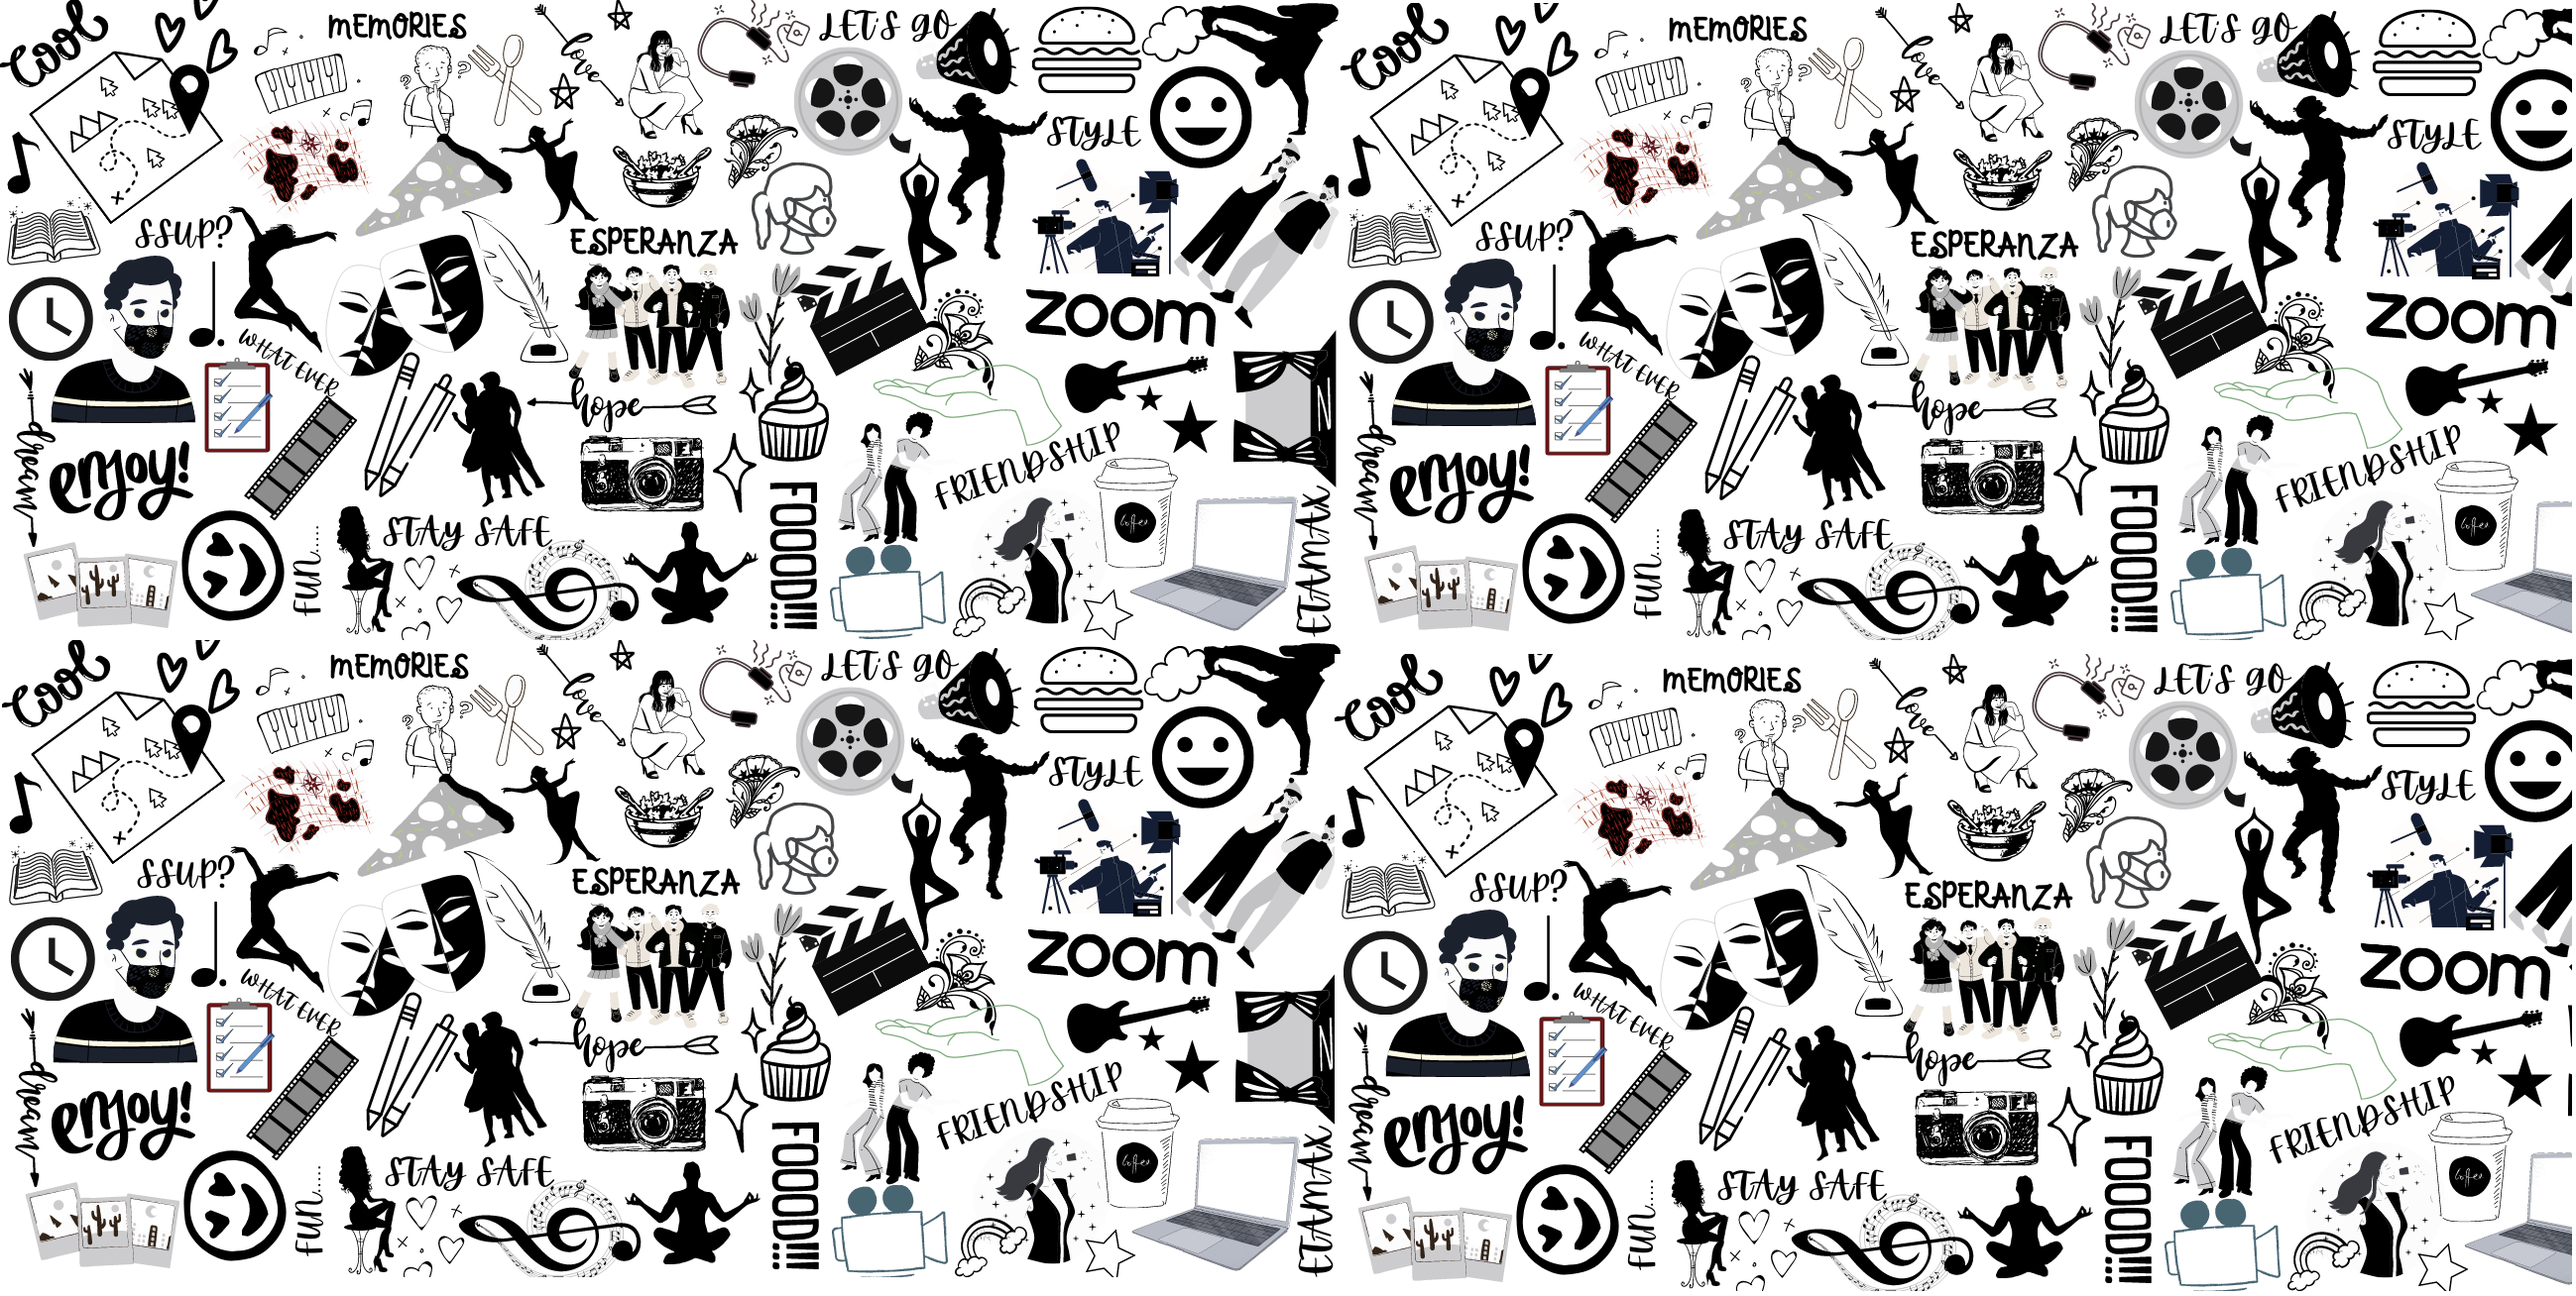
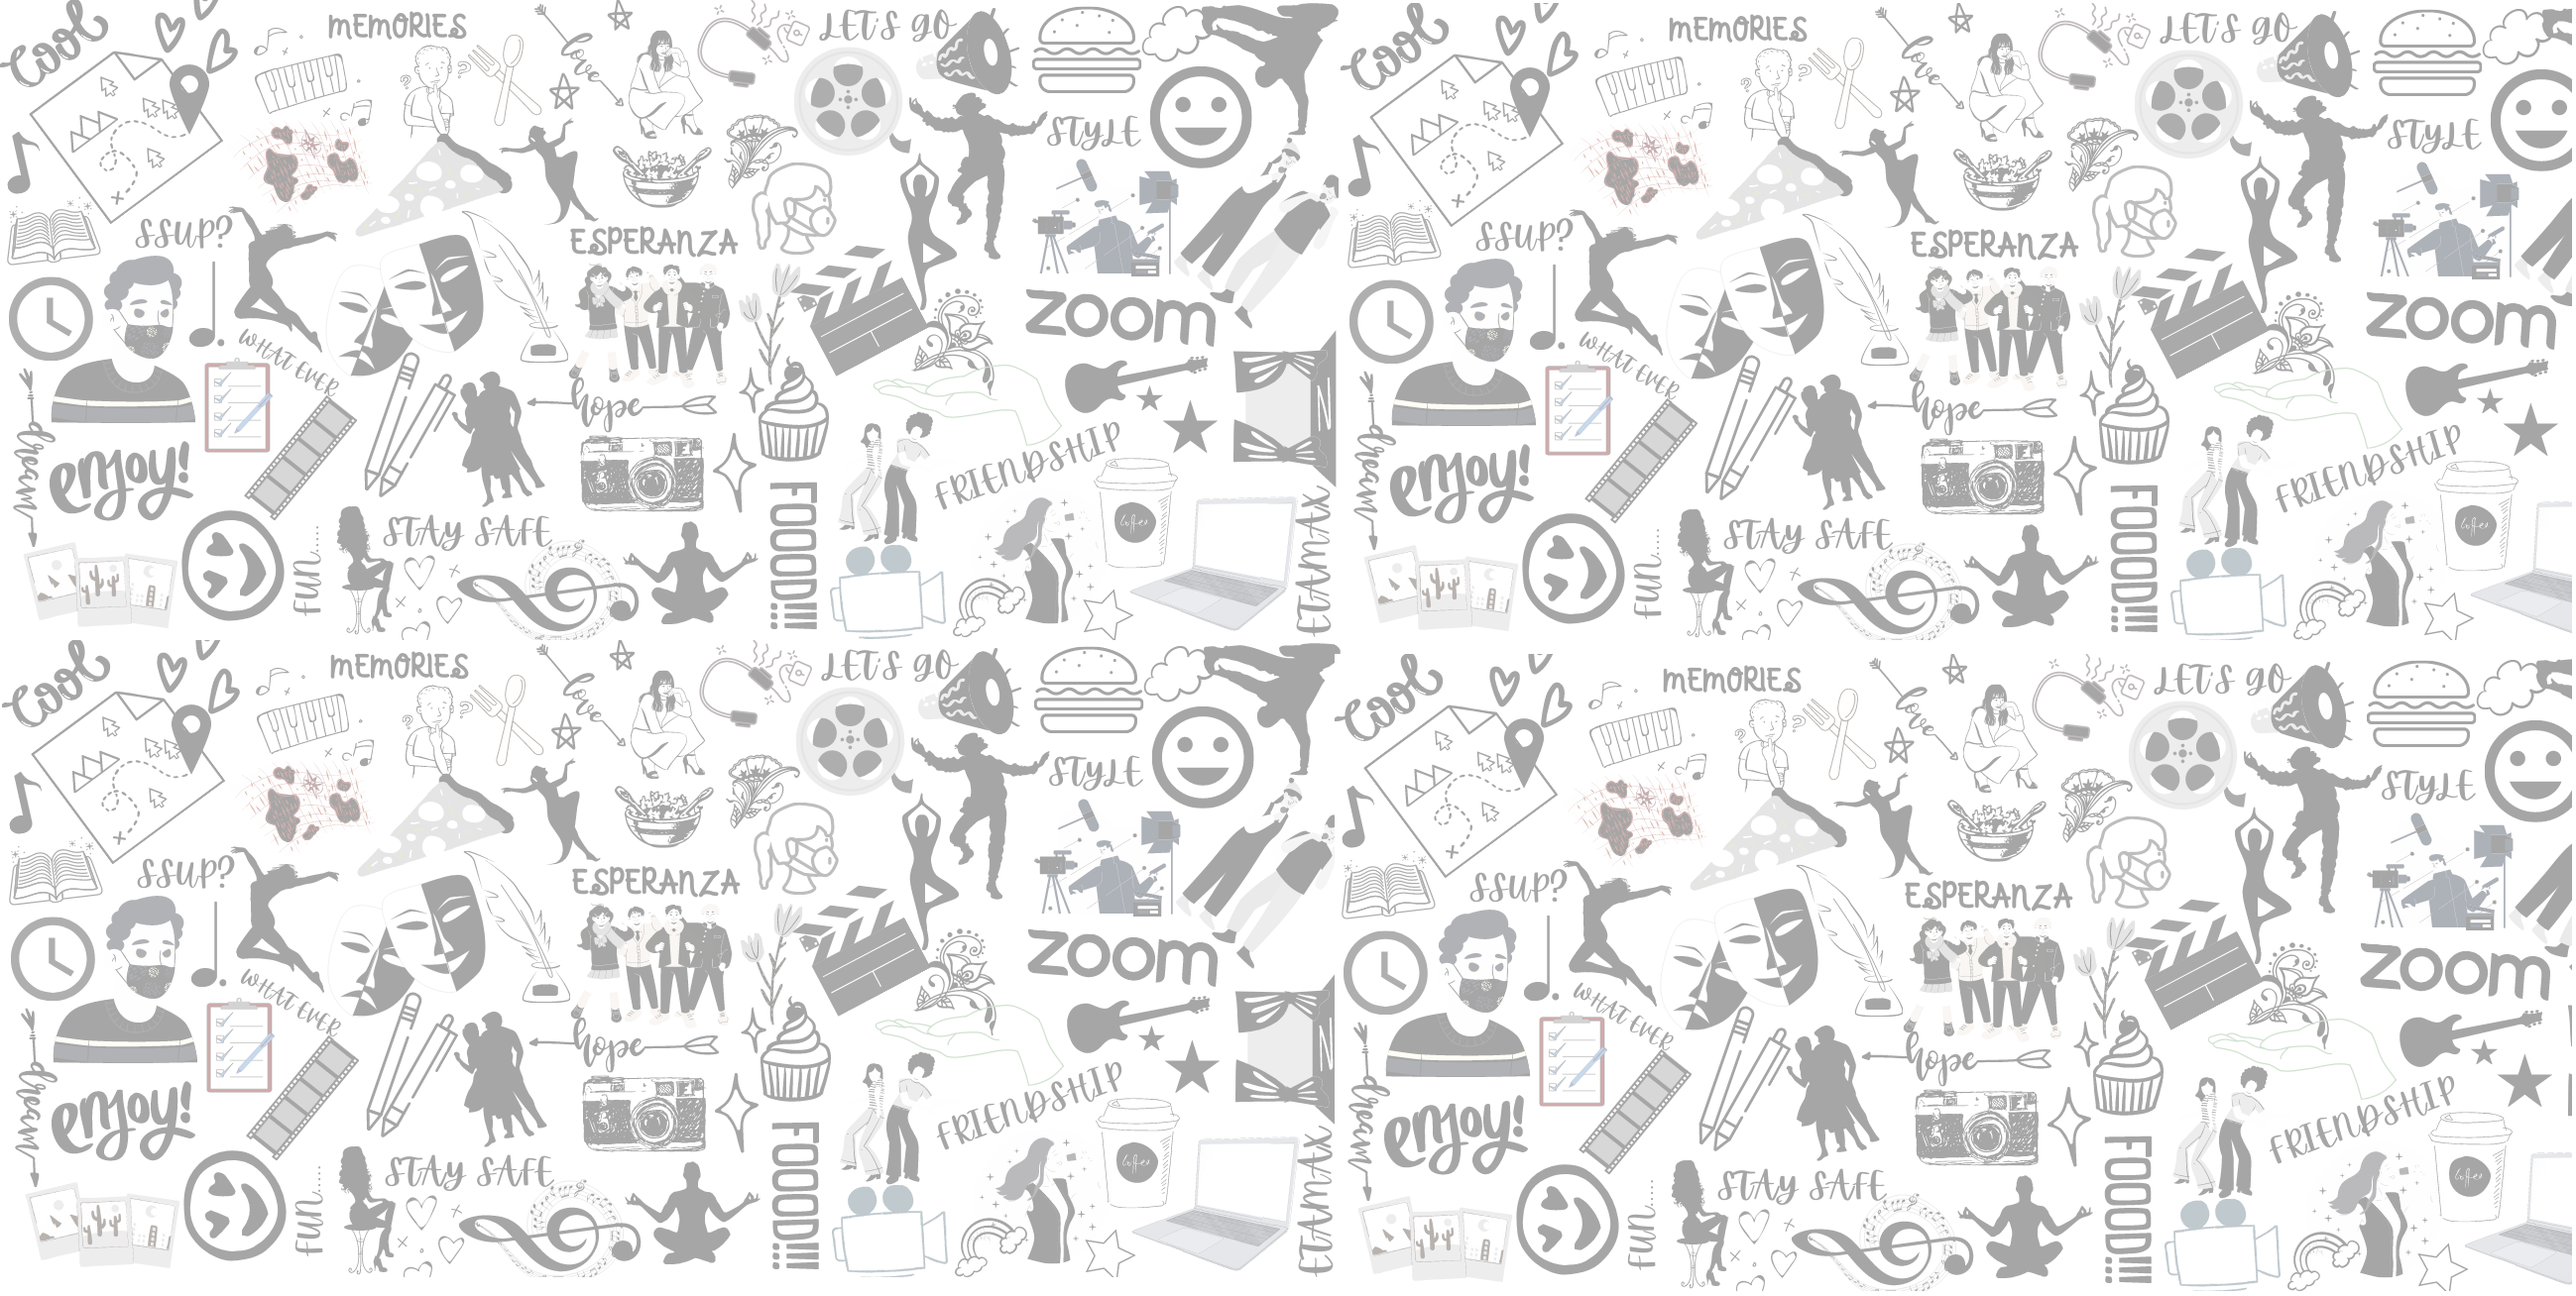
bg

Changed region(s): [[0.0, 0.0, 1.0, 1.0]]

diff --git a/client/src/pages/Events/Events.jsx b/client/src/pages/Events/Events.jsx
@@ -5,6 +5,7 @@ import { Spin, Space, Radio } from "antd";
 
 //components
 import EventCard from "../../components/Events/EventCard/EventCard";
+import eventbg from "../../assets/etamaxbg.png";
 
 import "./Events.css";
 
@@ -33,7 +34,7 @@ const Events = () => {
 
     axios
       .get(
-        process.env.REACT_APP_WEB_URL+`/api/events?day=${selectedDay}&category=${selectedCat}`,
+        process.env.REACT_APP_WEB_URL + `/api/events?day=${selectedDay}&category=${selectedCat}`,
         config
       )
       .then((res) => {
@@ -46,42 +47,44 @@ const Events = () => {
 
   return (
     <Fragment>
-      <div className="e-top-main">
-        <div className="e-dropdown">
-          <Dropdown
-            className="e-dropdown-item"
-            value={menu[0].label}
-            options={menu}
-            onChange={(_onSelect) => setSelectedDay(_onSelect.value)}
-            placeholder="Select Day"
-          />
+      <div className="e-wrap" style={{ backgroundImage: `url(${eventbg})` }}>
+        <div className="e-top-main">
+          <div className="e-dropdown">
+            <Dropdown
+              className="e-dropdown-item"
+              value={menu[0].label}
+              options={menu}
+              onChange={(_onSelect) => setSelectedDay(_onSelect.value)}
+              placeholder="Select Day"
+            />
+          </div>
+          <div className="e-radio">
+            <Radio.Group
+              size="medium"
+              options={options}
+              onChange={(e) => setSelectedCat(e.target.value)}
+              value={selectedCat}
+              optionType="button"
+              buttonStyle="solid"
+            />
+          </div>
         </div>
-        <div className="e-radio">
-          <Radio.Group
-            size="medium"
-            options={options}
-            onChange={(e) => setSelectedCat(e.target.value)}
-            value={selectedCat}
-            optionType="button"
-            buttonStyle="solid"
-          />
-        </div>
-      </div>
 
-      <div className="e-main">
-        {events.length ? (
-          events.map((obj, i) => {
-            return (
-              <div className="e-main-item">
-                <EventCard key={i} data={obj} displayAdd={true} />
-              </div>
-            );
-          })
-        ) : (
-          <Space size="middle" className="e-loader">
-            <Spin size="large" />
-          </Space>
-        )}
+        <div className="e-main">
+          {events.length ? (
+            events.map((obj, i) => {
+              return (
+                <div className="e-main-item">
+                  <EventCard key={i} data={obj} displayAdd={true} />
+                </div>
+              );
+            })
+          ) : (
+              <Space size="middle" className="e-loader">
+                <Spin size="large" />
+              </Space>
+            )}
+        </div>
       </div>
     </Fragment>
   );

diff --git a/client/src/pages/Login/Login.css b/client/src/pages/Login/Login.css
@@ -16,8 +16,8 @@
   margin-bottom: 20vh;
   margin-top: 17vh;
   box-shadow: 13px 11px 32px 5px rgba(0,0,0,0.7);
--webkit-box-shadow: 13px 11px 32px 5px rgba(0,0,0,0.7);
--moz-box-shadow: 13px 11px 32px 5px rgba(0,0,0,0.7);
+  -webkit-box-shadow: 13px 11px 32px 5px rgba(0,0,0,0.7);
+  -moz-box-shadow: 13px 11px 32px 5px rgba(0,0,0,0.7);
 }
 
 .login-form {

diff --git a/client/src/pages/Events/Events.css b/client/src/pages/Events/Events.css
@@ -13,6 +13,15 @@
   height: 100%;
   width: 100%;
   margin: 0 auto;
+  background-color: white;
+}
+
+.e-wrap{
+  height:100vh;
+  background-repeat: repeat-y;
+  background-origin: border-box;
+  background-position: center;
+  background-size: 100%;
 }
 
 .Dropdown-option:hover {
